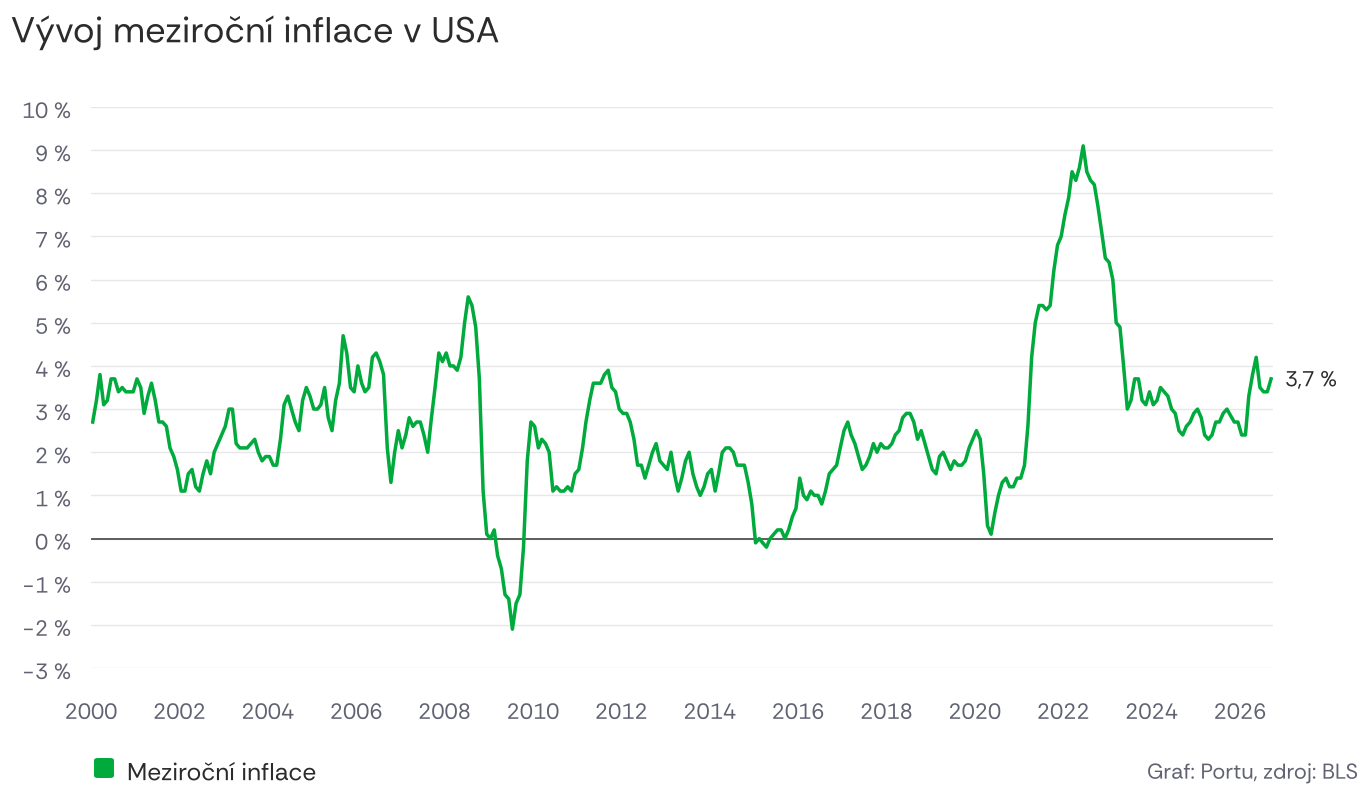
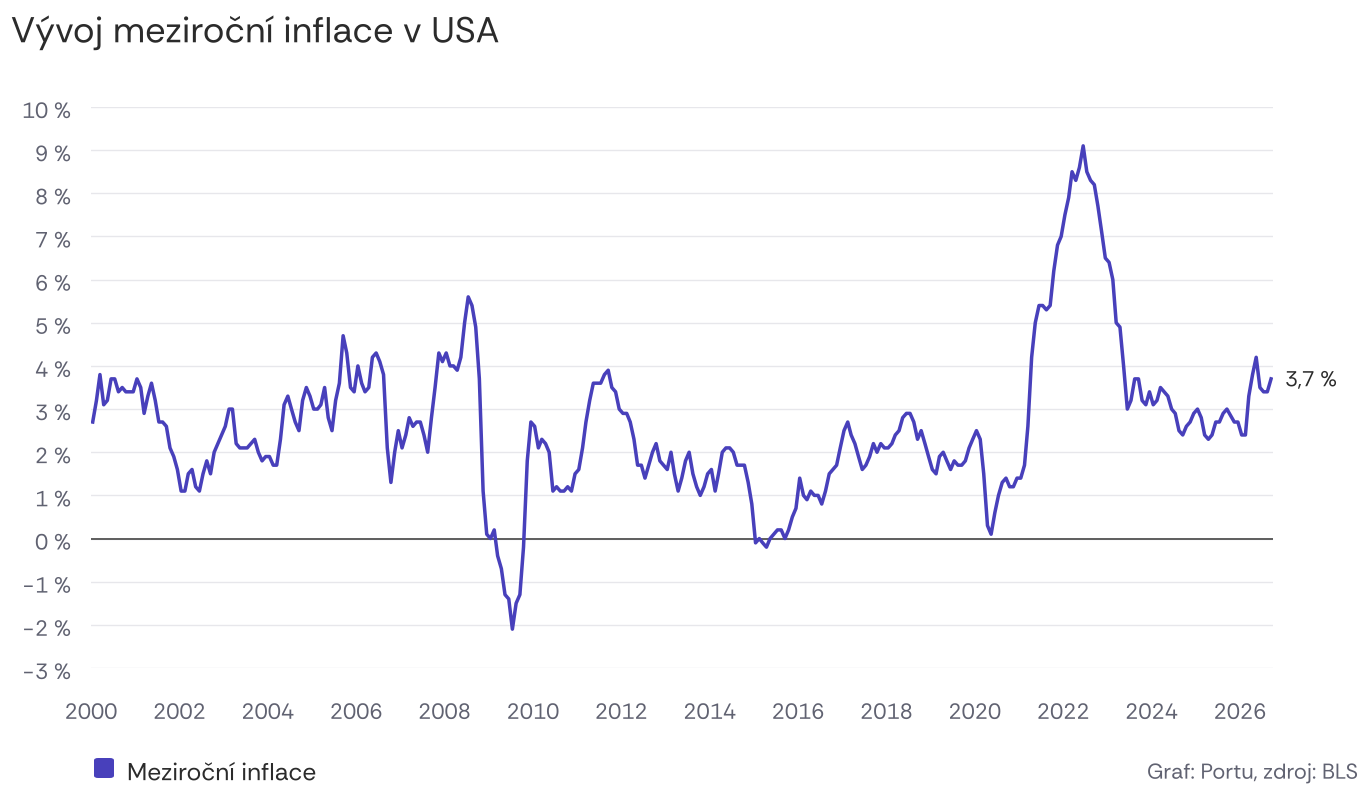
Graf inflace USA: čára v Portu fialové #4840BB
Claude-Session: https://claude.ai/code/session_01A8r6cxYv4z3RaLJthvcQAS

diff --git a/vystupy/grafy/2026-10-16-inflace-usa.py b/vystupy/grafy/2026-10-16-inflace-usa.py
@@ -22,7 +22,7 @@ with open(ZAKLAD + ".csv", encoding="utf-8") as f:
 
 fig = pg.spojnicovy(
     datumy, {"Meziroční inflace": inflace},
-    osa_y=(-3, 10, 1), jednotka="%", barvy=[pg.ZELENA],
+    osa_y=(-3, 10, 1), jednotka="%", barvy=[pg.FIALOVA],
     format_x="%Y", interval_let=2, rozsah_x=(dt.date(2000, 1, 1), dt.date(2026, 10, 1)),
     popisky_konec=True,
     zdroj="Graf: Portu, zdroj: BLS",
